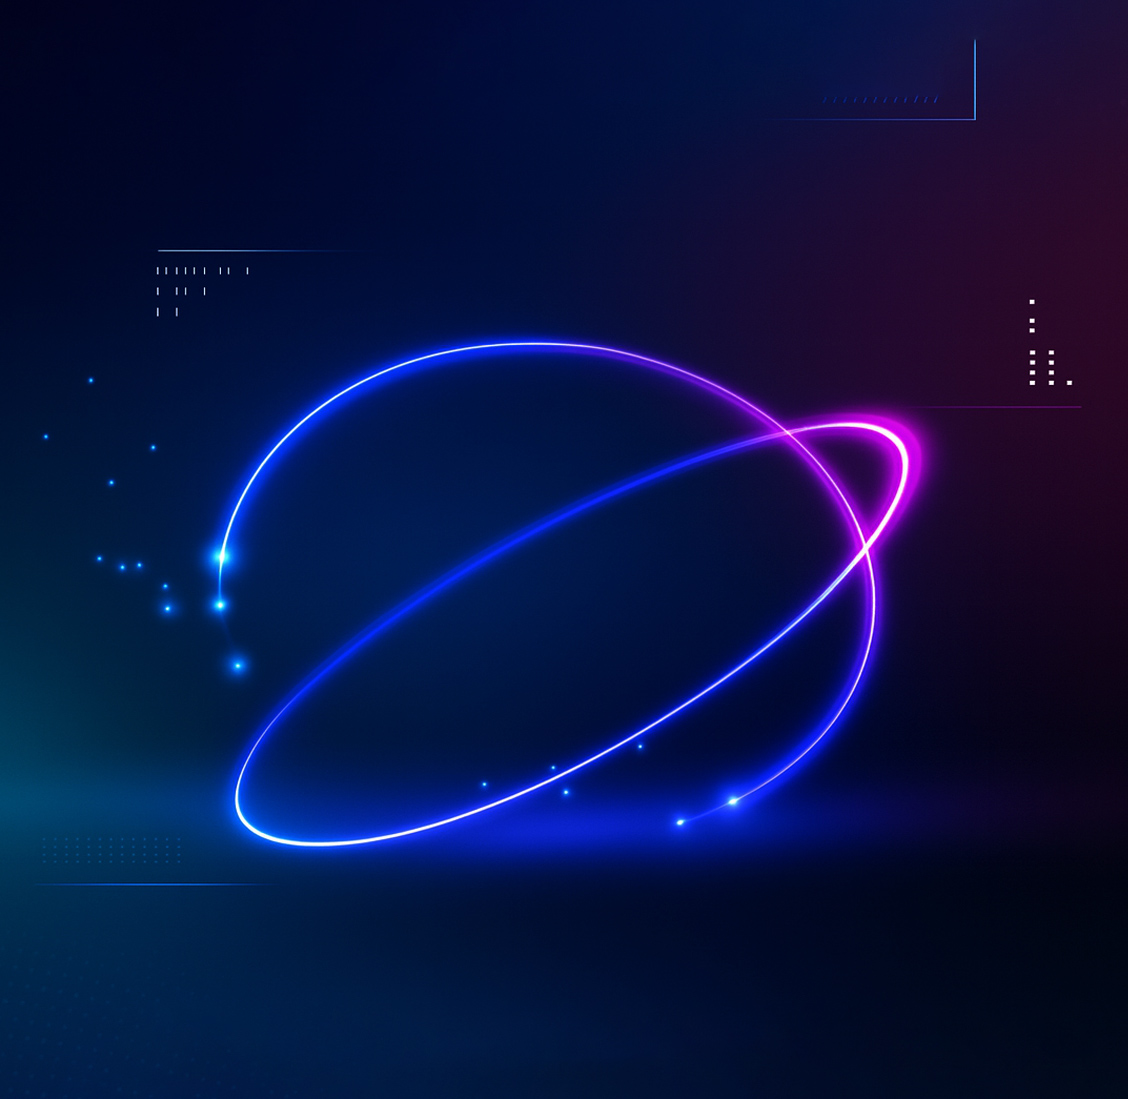
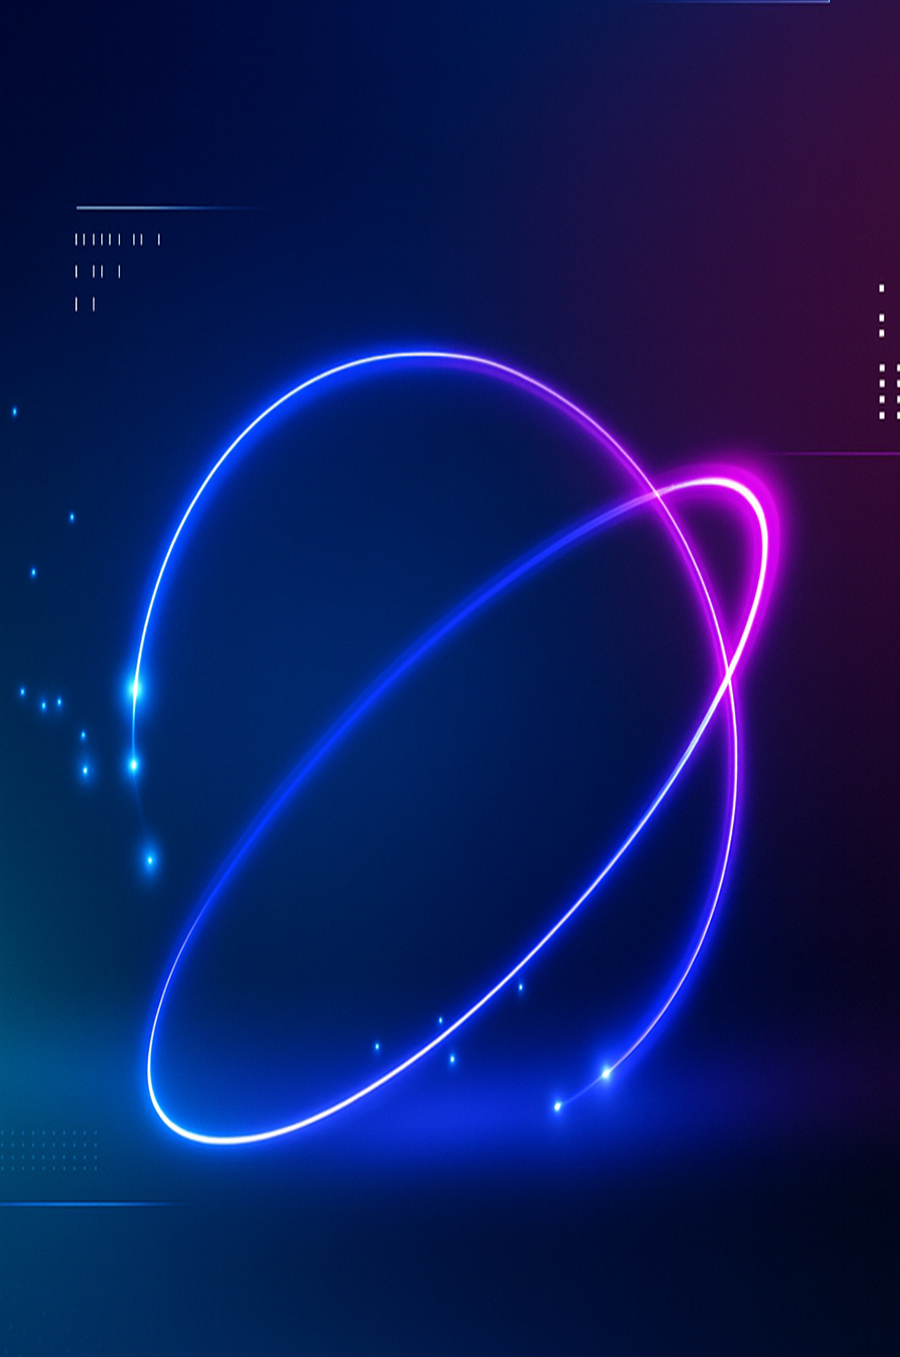
2026-12-10 16:47 chan

diff --git a/style.css b/style.css
@@ -1162,6 +1162,8 @@ img {
     }
     .hero {
     background-image: url("images/hero_mobile.jpg");
+    height: 600px;
+    padding:80px 0 80px;
     }
 
     /* 로고 + 아이콘 한 줄 */
